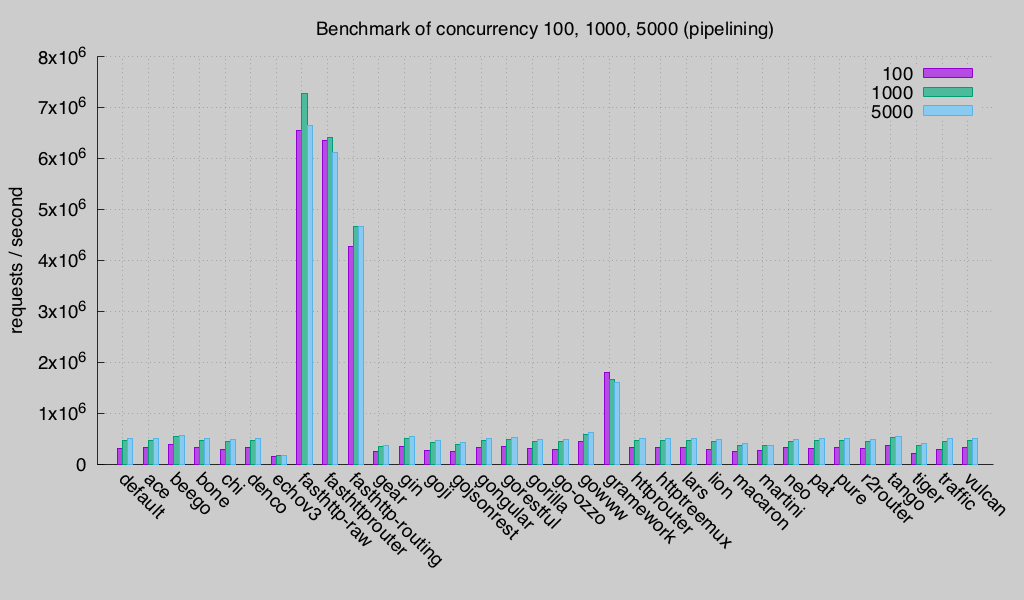
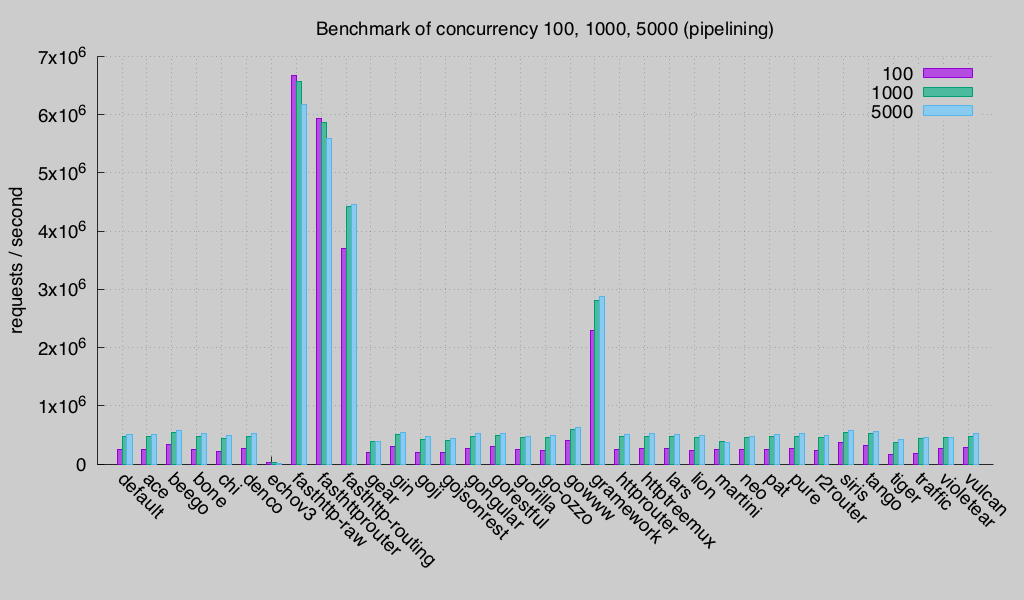
update test results

diff --git a/README.md b/README.md
@@ -1,13 +1,13 @@
 # go-web-framework-benchmark
 This benchmark suite aims to compare the performance of Go web frameworks. It is inspired by [Go HTTP Router Benchmark](https://github.com/julienschmidt/go-http-routing-benchmark) but this benchmark suite is different with that. Go HTTP Router Benchmark suit aims to compare the performance of **routers** but this Benchmark suit aims to compare whole HTTP request processing.
 
-**Last Test Updated:** 2017-06-13
+**Last Test Updated:** 2017-09-12
 
 *test environment*
 
 * CPU:      Intel(R) Xeon(R) CPU E5-2630 v3 @ 2.40GHz, 32 cores
 * Memory:   32G
-* Go:       1.8.3
+* Go:       1.9.0
 * OS:       CentOS 7 / 3.10.0-229.el7.x86_64
 
 (doesn't contain test results of neo because one error)
